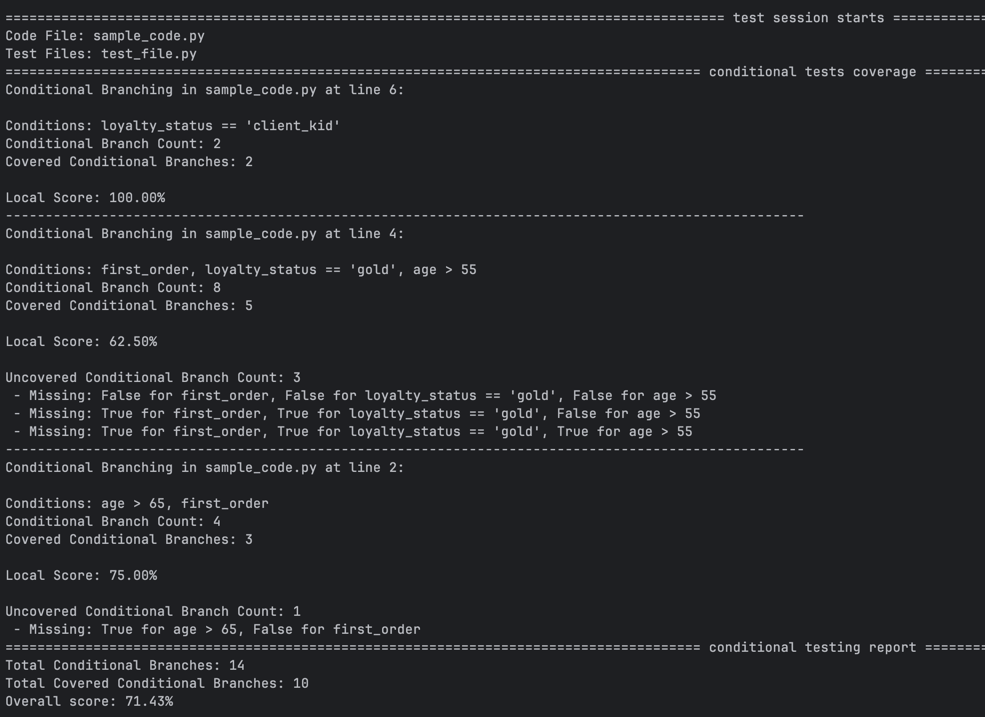
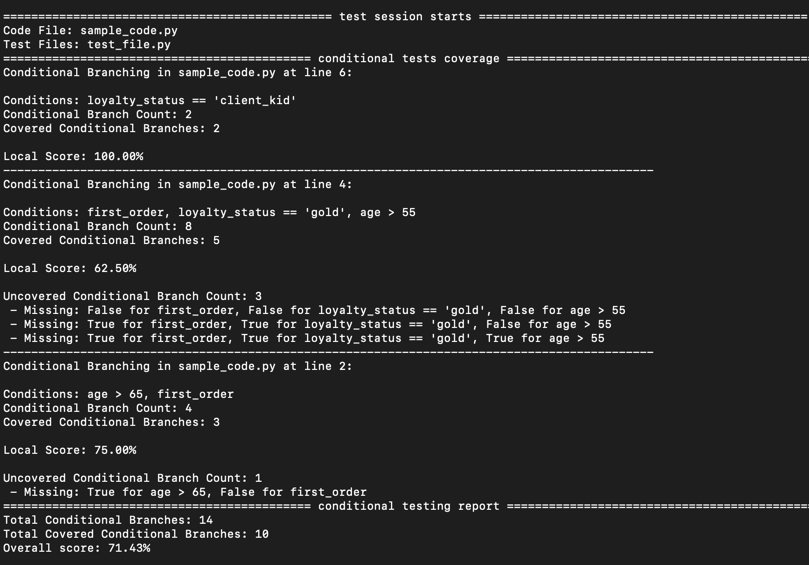
Final README changes

diff --git a/conditional_testing.py b/conditional_testing.py
@@ -253,7 +253,7 @@ def testing_report(ast_parser):
 
 
         if current_fork != forks_count:
-            print("-" * 100)
+            print("-" * ((terminal_width * 2) // 3))
 
     if total_branches == 0:
         overall_score = 100

diff --git a/README.md b/README.md
@@ -1,6 +1,10 @@
 # Conditional Testing Module in Python
 ## Overview:
-This repository implements conditional testing in Python
+This repository implements conditional testing in Python.
+
+The file conditional_testing.py contains the source code, file sample_code.py is a sample code
+to be used in testing, test_file.py is a sample test file and the file tests_missing.py provides the tests
+missing from test_file.py to reach 100% conditional coverage.
 
 ## Report example
 
